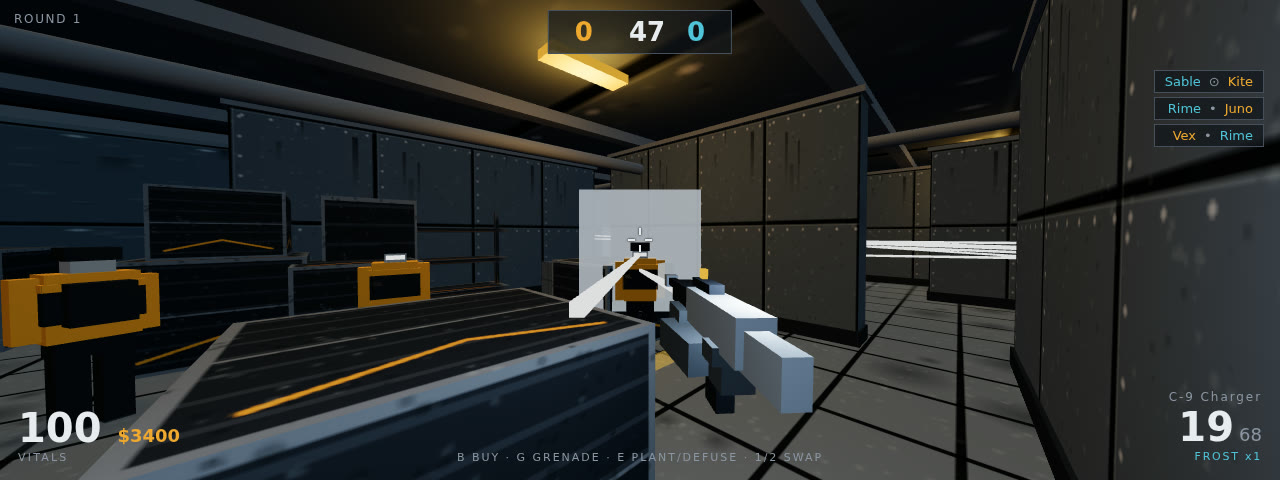
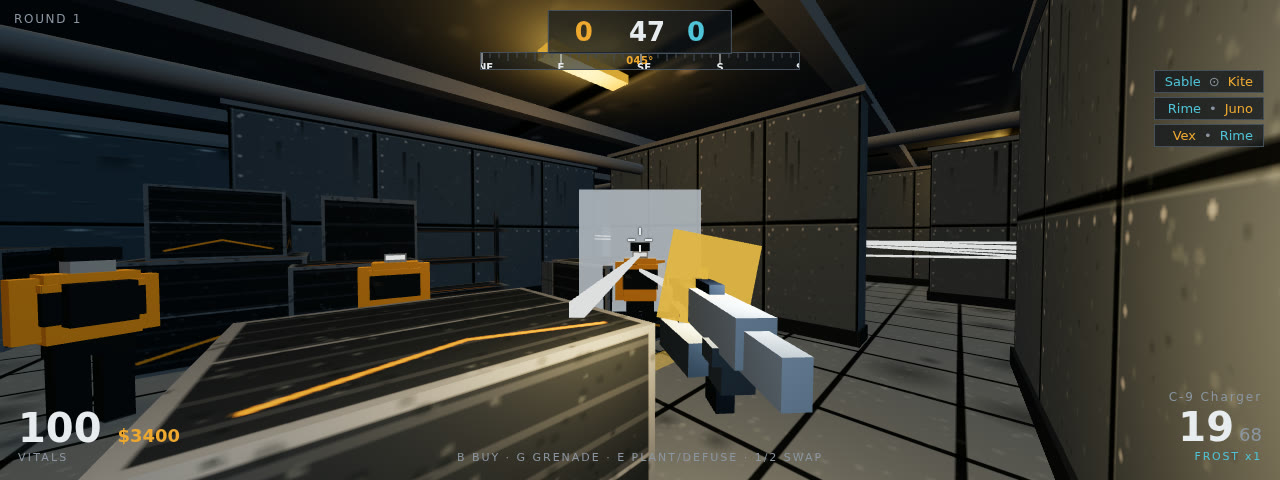
Add compass strip and pooled muzzle flash, hold the flash for captures

diff --git a/game/src/compass.js b/game/src/compass.js
@@ -1,0 +1,74 @@
+// Compass strip: a heading tape across the top of the HUD, drawn in the DOM.
+//
+// The tape is rebuilt once at construction (one span per five degrees) and then
+// only its transform changes as the player turns, so a frame costs one style
+// write and nothing else. Bearings are degrees clockwise from north, and the
+// game's yaw (0 faces -z) maps to north.
+
+const TICK_DEGREES = 5;
+const LABELS = [
+  { deg: 0, text: 'N' },
+  { deg: 45, text: 'NE' },
+  { deg: 90, text: 'E' },
+  { deg: 135, text: 'SE' },
+  { deg: 180, text: 'S' },
+  { deg: 225, text: 'SW' },
+  { deg: 270, text: 'W' },
+  { deg: 315, text: 'NW' },
+];
+
+export function bearingOf(yaw) {
+  // yaw 0 looks down -z (north); increasing yaw turns left, so the bearing runs
+  // the other way and wraps into 0..360.
+  const deg = (-yaw * 180) / Math.PI;
+  return ((deg % 360) + 360) % 360;
+}
+
+export function createCompass(doc, host) {
+  const root = doc.getElementById(host);
+  if (!root) return { update() {} };
+
+  const tape = doc.createElement('div');
+  tape.className = 'compass-tape';
+  const width = 360 / TICK_DEGREES;
+
+  for (let i = 0; i < width; i++) {
+    const deg = i * TICK_DEGREES;
+    const tick = doc.createElement('i');
+    const label = LABELS.find((l) => l.deg === deg);
+    if (label) {
+      tick.className = 'major';
+      tick.textContent = label.text;
+    } else if (deg % 15 === 0) {
+      tick.className = 'mid';
+    }
+    tick.style.left = `${(deg / 360) * 100}%`;
+    tape.appendChild(tick);
+  }
+  root.appendChild(tape);
+
+  const readout = doc.createElement('b');
+  readout.className = 'compass-readout';
+  root.appendChild(readout);
+
+  let lastPct = -1;
+  let lastText = '';
+
+  return {
+    update(yaw) {
+      const bearing = bearingOf(yaw);
+      // the tape is twice the viewport wide, so a bearing moves it by half its
+      // own share of 360 degrees
+      const pct = Math.round((bearing / 360) * 1000) / 10;
+      if (pct !== lastPct) {
+        lastPct = pct;
+        tape.style.transform = `translateX(${-pct}%)`;
+      }
+      const text = `${String(Math.round(bearing)).padStart(3, '0')}°`;
+      if (text !== lastText) {
+        lastText = text;
+        readout.textContent = text;
+      }
+    },
+  };
+}

diff --git a/game/src/muzzle.js b/game/src/muzzle.js
@@ -1,0 +1,69 @@
+// Muzzle flash: one pooled quad and one point light, shown for a few hundredths
+// of a second on every shot. Nothing is allocated after construction.
+//
+// The quad always faces the camera because it is drawn as a child of the camera
+// at the weapon's muzzle, which is what makes it read as a flash rather than a
+// card floating in the world. The light is what sells it on the walls.
+import * as THREE from 'three';
+import { PALETTE } from './palette.js';
+
+const FLASH_SECONDS = 0.06;
+const LIGHT_SECONDS = 0.09;
+
+export function createMuzzleFlash(camera) {
+  const geo = new THREE.PlaneGeometry(0.26, 0.26);
+  const mat = new THREE.MeshBasicMaterial({
+    color: PALETTE.accent,
+    transparent: true,
+    opacity: 0.95,
+    depthWrite: false,
+  });
+  const quad = new THREE.Mesh(geo, mat);
+  quad.position.set(0.2, -0.12, -0.92);
+  quad.visible = false;
+  camera.add(quad);
+
+  const light = new THREE.PointLight(0xffc266, 0, 6, 2);
+  light.position.copy(quad.position);
+  light.visible = false;
+  camera.add(light);
+
+  let flashLeft = 0;
+  let lightLeft = 0;
+
+  return {
+    // Called when a shot fires: no allocation, just two timers.
+    fire() {
+      flashLeft = FLASH_SECONDS;
+      lightLeft = LIGHT_SECONDS;
+      quad.visible = true;
+      light.visible = true;
+      light.intensity = 7;
+      // a deterministic spin keeps two shots from looking identical without
+      // touching the simulation's generator
+      quad.rotation.z += 0.9;
+    },
+    step(dt) {
+      if (flashLeft > 0) {
+        flashLeft -= dt;
+        mat.opacity = Math.max(0, flashLeft / FLASH_SECONDS) * 0.95;
+        if (flashLeft <= 0) quad.visible = false;
+      }
+      if (lightLeft > 0) {
+        lightLeft -= dt;
+        light.intensity = Math.max(0, lightLeft / LIGHT_SECONDS) * 7;
+        if (lightLeft <= 0) light.visible = false;
+      }
+    },
+    // The shot-mode captures fire without a running clock, so the flash has to
+    // be able to hold itself open for the screenshot.
+    hold() {
+      flashLeft = FLASH_SECONDS;
+      lightLeft = LIGHT_SECONDS;
+      quad.visible = true;
+      light.visible = true;
+      light.intensity = 7;
+      mat.opacity = 0.95;
+    },
+  };
+}

diff --git a/game/src/main.js b/game/src/main.js
@@ -11,6 +11,8 @@ import { WEAPONS, tryFire, startReload, stepWeapon, throwGrenade, buy, buyGrenad
 import { stepBots, botHear } from './bots.js';
 import { stepRounds, resetForRound } from './rounds.js';
 import { createHud } from './hud.js';
+import { createCompass } from './compass.js';
+import { createMuzzleFlash } from './muzzle.js';
 import { createAudio } from './audio.js';
 import { createFx } from './fx.js';
 import { buildTextures } from './textures.js';
@@ -208,6 +210,8 @@ const SEED = params.get('seed') ? (parseInt(params.get('seed'), 10) >>> 0) : 0x5
 const state = createState(SEED);
 state.shotMode = shotMode;
 const hud = createHud(document);
+const compass = createCompass(document, 'compass');
+const muzzle = createMuzzleFlash(camera);
 const me = state.actors[4]; // the human plays a Raider
 
 function startMatch() {
@@ -316,6 +320,7 @@ function dispatchEvents() {
     const e = state.events[i];
     switch (e.type) {
       case 'shot': {
+        muzzle.fire();
         const a = state.actors[e.a];
         const d = Math.hypot(a.pos.x - me.pos.x, a.pos.z - me.pos.z);
         audio.shot(a.weapon, d);
@@ -468,6 +473,8 @@ function frame(now) {
     fx.tracer(-9.0, 1.35, -4.0, -11.6, 1.45, -1.6);
     fx.puff(-9.05, 1.4, -3.95, false);
   }
+  muzzle.step(shotMode ? 0 : dt);
+  compass.update(me.yaw);
   fx.step(shotMode ? 0 : dt, camera);
   syncScene();
   renderer.render(scene, camera);
@@ -535,6 +542,7 @@ function runShotMode(mode) {
   const ticks = setup();
   for (let i = 0; i < ticks; i++) tick();
   applyShot();
+  if (mode === 'play' || mode === 'bomb') muzzle.hold();
   return ticks;
 }
 

diff --git a/game/index.html b/game/index.html
@@ -84,6 +84,17 @@ html, body { height: 100%; background: var(--canvas); overflow: hidden; }
   display: grid; grid-template-columns: auto auto; gap: 4px 22px; text-align: left; }
 kbd { background: var(--surface2); border: 1px solid var(--hairline); padding: 1px 6px;
   font-family: inherit; color: var(--ink); }
+
+#compass { position: absolute; top: 52px; left: 50%; transform: translateX(-50%);
+  width: 320px; height: 18px; overflow: hidden; border: 1px solid var(--hairline);
+  background: rgba(16,21,27,.62); color: var(--muted); font-size: 10px; }
+#compass .compass-tape { position: absolute; inset: 0; width: 200%; }
+#compass .compass-tape i { position: absolute; top: 0; width: 1px; height: 5px; background: var(--hairline); }
+#compass .compass-tape i.mid { height: 8px; }
+#compass .compass-tape i.major { height: 11px; background: var(--ink); font-style: normal;
+  text-indent: -3px; padding-top: 9px; font-weight: 600; color: var(--ink); }
+#compass .compass-readout { position: absolute; left: 50%; top: 2px; transform: translateX(-50%);
+  font-weight: 700; color: var(--accent); letter-spacing: .04em; }
 </style>
 </head>
 <body>
@@ -92,6 +103,7 @@ kbd { background: var(--surface2); border: 1px solid var(--hairline); padding: 1
 <div id="hud" aria-hidden="true" class="hud">
   <div id="crosshair"><i></i><i></i><i></i><i></i></div>
   <div id="hud-round">ROUND 1</div>
+  <div id="compass" class="panel"></div>
   <div id="topbar">
     <span id="score-l">0</span>
     <span id="hud-phase">BUY</span>
